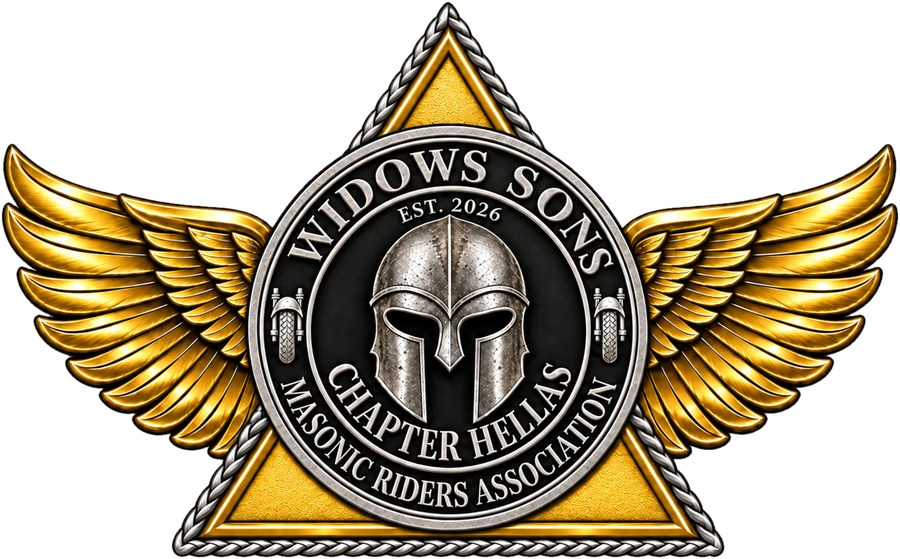
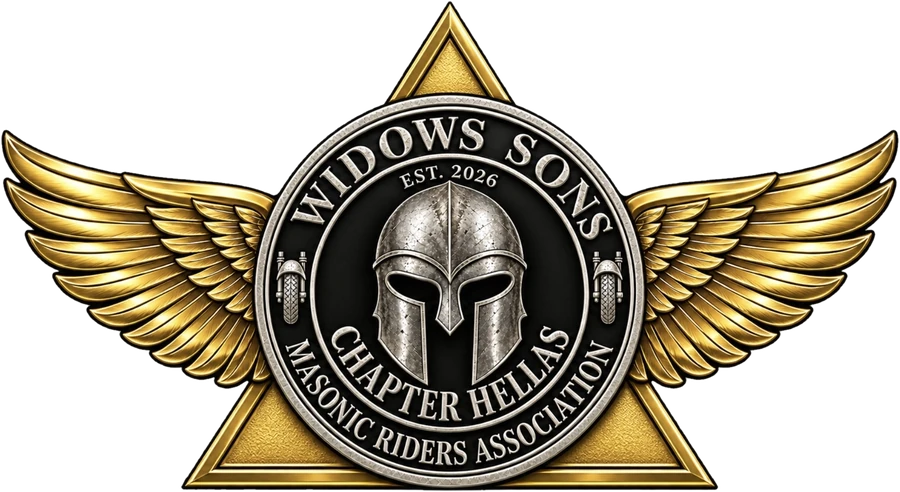
Give the brethren the gold-edged pin, and fold the specifications away
The members' pin is replaced. It no longer carries a twisted cord: the
triangle bears no silver upon it at all, only its own raised gold rim
with a fine gold line set within and the textured field between them. So
the card is rewritten to match — it is The Gold Edge now, not The Twisted
Rope — and the test of it is stated plainly: a plain gold edge and no
braid, and if there is silver anywhere but the roundel at the centre, it
is not this pin. The new artwork came on a white ground and was cut from
it: 113KB of WebP.

The technical part now opens on demand. It sits behind a button — a
native details/summary, no script — that turns from a plus to a cross as
it opens, and the nine figures, the maker's sheet and the note on the
magnet are behind it. Nothing is lost; it is simply not in the way of a
reader who came to look at the pins.

One thing had to be said rather than left implied. The maker's sheet
names a silver braided border in its own notes, so it is the Chair's
specification, not a general one. The caption now says so: the sheet is
drawn for the braided border, and the members' pin is the same in every
measure and differs only in its edge.

Four blocks changed their English, so their Greek and Spanish moved with
them and one stale entry was dropped; the register stands at 183 apiece.

Verified: the specifications are closed at rest, open when the button is
pressed and close again; the Greek reads Η Χρυσή Ακμή and the Spanish El
[…]

diff --git a/assets/ws-lang.js b/assets/ws-lang.js
@@ -213,8 +213,12 @@
     "<b>Finish</b><span>Antique gold &amp; antique silver, hard enamel</span>": "<b>Φινίρισμα</b><span>Παλαιωμένος χρυσός &amp; άργυρος, σκληρό σμάλτο</span>",
     "<b>Fastening</b><span>One centred neodymium magnet, N52</span>": "<b>Στερέωση</b><span>Ένας κεντρικός μαγνήτης νεοδυμίου, N52</span>",
     "<b>Pull</b><span>1.5 – 2.0 kg minimum</span>": "<b>Ελκτική δύναμη</b><span>1,5 – 2,0 kg κατ’ ελάχιστον</span>",
-    "The sheet the maker works from — front, side and back, with the dimensions, the finishes and the magnet": "Το φύλλο από το οποίο εργάζεται ο κατασκευαστής — εμπρός, πλάγια και πίσω, με τις διαστάσεις, τα φινιρίσματα και τον μαγνήτη",
-    "A magnet, not a pin post: it holds through leather and cloth without piercing either, which is why it may be worn on a jacket that must not be punctured. <b>A sample is approved by the Chapter before any quantity is struck.</b>": "Μαγνήτης, όχι καρφίτσα: κρατά μέσα από δέρμα και ύφασμα χωρίς να τρυπά ούτε το ένα ούτε το άλλο, γι’ αυτό και μπορεί να φερθεί σε σακάκι που δεν πρέπει να διατρηθεί. <b>Δείγμα εγκρίνεται από το Chapter πριν χυτευθεί οποιαδήποτε ποσότητα.</b>"
+    "A magnet, not a pin post: it holds through leather and cloth without piercing either, which is why it may be worn on a jacket that must not be punctured. <b>A sample is approved by the Chapter before any quantity is struck.</b>": "Μαγνήτης, όχι καρφίτσα: κρατά μέσα από δέρμα και ύφασμα χωρίς να τρυπά ούτε το ένα ούτε το άλλο, γι’ αυτό και μπορεί να φερθεί σε σακάκι που δεν πρέπει να διατρηθεί. <b>Δείγμα εγκρίνεται από το Chapter πριν χυτευθεί οποιαδήποτε ποσότητα.</b>",
+    "The Gold Edge": "Η Χρυσή Ακμή",
+    "The plainer of the two, and the one most brethren wear. The triangle carries <b>no silver upon it at all</b>: it is bound by its own <b>raised gold rim</b>, with a fine gold line set within, and the textured gold field between them.": "Το απλούστερο εκ των δύο, και εκείνο που φέρουν οι περισσότεροι αδελφοί. Το τρίγωνο δεν φέρει <b>ουδόλως άργυρο</b>: περιβάλλεται από το ίδιο του το <b>ανάγλυφο χρυσό χείλος</b>, με λεπτή χρυσή γραμμή εντός αυτού και το ανάγλυφο χρυσό πεδίο ανάμεσά τους.",
+    "<b>How it is told</b>A plain gold edge and no braid. If there is silver anywhere but the roundel at the centre, it is not this pin.": "<b>Πώς αναγνωρίζεται</b>Απλή χρυσή ακμή και καμία πλεξίδα. Αν υπάρχει άργυρος οπουδήποτε πλην του κεντρικού δίσκου, δεν είναι αυτό το σήμα.",
+    "Technical specifications — how the pin is made": "Τεχνικές προδιαγραφές — πώς κατασκευάζεται το σήμα",
+    "The sheet the maker works from. It is drawn for the braided border of the Chair; the members’ pin is the same in every measure and differs only in its edge.": "Το φύλλο από το οποίο εργάζεται ο κατασκευαστής. Είναι σχεδιασμένο για το πλεκτό περίγραμμα της Προεδρίας· το σήμα των μελών είναι το ίδιο σε κάθε διάσταση και διαφέρει μόνο ως προς την ακμή του."
    },
    "es": {
     "<a href=\"#organization\">Organization</a> <a href=\"#dresscode\">Dress Code</a> <a href=\"#administration\">Administration</a> <a href=\"#emblem\">Emblem</a> <a href=\"#constitution\">Constitution</a> <a href=\"#bylaws\">By-Laws</a><a href=\"officers.html\">Officers</a><a href=\"secretary.html\">Secretary</a>": "<a href=\"#organization\">Organización</a> <a href=\"#dresscode\">Indumentaria</a> <a href=\"#administration\">Administración</a> <a href=\"#emblem\">Emblema</a> <a href=\"#constitution\">Constitución</a> <a href=\"#bylaws\">Reglamento</a><a href=\"officers.html\">Oficiales</a><a href=\"secretary.html\">Secretaría</a>",
@@ -394,8 +398,12 @@
     "<b>Finish</b><span>Antique gold &amp; antique silver, hard enamel</span>": "<b>Acabado</b><span>Oro y plata antiguos, esmalte duro</span>",
     "<b>Fastening</b><span>One centred neodymium magnet, N52</span>": "<b>Sujeción</b><span>Un imán de neodimio centrado, N52</span>",
     "<b>Pull</b><span>1.5 – 2.0 kg minimum</span>": "<b>Fuerza de agarre</b><span>1,5 – 2,0 kg como mínimo</span>",
-    "The sheet the maker works from — front, side and back, with the dimensions, the finishes and the magnet": "La hoja con la que trabaja el fabricante — frente, perfil y dorso, con las medidas, los acabados y el imán",
-    "A magnet, not a pin post: it holds through leather and cloth without piercing either, which is why it may be worn on a jacket that must not be punctured. <b>A sample is approved by the Chapter before any quantity is struck.</b>": "Un imán, no un alfiler: sujeta a través del cuero y de la tela sin perforar ninguno de los dos, por lo que puede llevarse en una chaqueta que no debe perforarse. <b>El Chapter aprueba una muestra antes de acuñar cualquier cantidad.</b>"
+    "A magnet, not a pin post: it holds through leather and cloth without piercing either, which is why it may be worn on a jacket that must not be punctured. <b>A sample is approved by the Chapter before any quantity is struck.</b>": "Un imán, no un alfiler: sujeta a través del cuero y de la tela sin perforar ninguno de los dos, por lo que puede llevarse en una chaqueta que no debe perforarse. <b>El Chapter aprueba una muestra antes de acuñar cualquier cantidad.</b>",
+    "The Gold Edge": "El Filo Dorado",
+    "The plainer of the two, and the one most brethren wear. The triangle carries <b>no silver upon it at all</b>: it is bound by its own <b>raised gold rim</b>, with a fine gold line set within, and the textured gold field between them.": "El más sencillo de los dos, y el que llevan la mayoría de los hermanos. El triángulo <b>no lleva plata alguna</b>: va ceñido por su propio <b>reborde dorado en relieve</b>, con una fina línea de oro por dentro y el campo de oro texturado entre ambos.",
+    "<b>How it is told</b>A plain gold edge and no braid. If there is silver anywhere but the roundel at the centre, it is not this pin.": "<b>Cómo se reconoce</b>Un filo dorado liso y ninguna trenza. Si hay plata en cualquier parte que no sea el disco central, no es este pin.",
+    "Technical specifications — how the pin is made": "Especificaciones técnicas — cómo se fabrica el pin",
+    "The sheet the maker works from. It is drawn for the braided border of the Chair; the members’ pin is the same in every measure and differs only in its edge.": "La hoja con la que trabaja el fabricante. Está dibujada para el borde trenzado de la Presidencia; el pin de los miembros es idéntico en todas sus medidas y solo difiere en su filo."
    }
   };
 

diff --git a/index.html b/index.html
@@ -966,6 +966,27 @@ footer .fmotto{font-family:'Mrs Saint Delafield',cursive; color:var(--crimson-br
   letter-spacing:.06em;color:#f2e7c5}
 
 /* how it is made */
+/* the technical sheet, opened only when it is asked for */
+#regalia .tech{margin-top:0;border:1px solid rgba(203,168,103,.30);border-radius:10px;
+  background:linear-gradient(145deg,rgba(20,21,23,.9),rgba(7,8,9,.95));overflow:hidden}
+#regalia .tech summary{list-style:none;cursor:pointer;display:flex;align-items:center;gap:14px;
+  padding:18px 22px;font:600 12px/1.3 'Oswald',sans-serif;letter-spacing:.16em;text-transform:uppercase;
+  color:var(--gold-bright);transition:background .18s ease,color .18s ease}
+#regalia .tech summary::-webkit-details-marker{display:none}
+#regalia .tech summary:before{content:'';flex:none;width:26px;height:26px;border-radius:50%;
+  border:1px solid rgba(203,168,103,.55);background:rgba(0,0,0,.45);
+  background-image:linear-gradient(currentColor,currentColor),linear-gradient(currentColor,currentColor);
+  background-size:11px 1.5px,1.5px 11px;background-position:center,center;background-repeat:no-repeat;
+  transition:transform .22s ease}
+#regalia .tech[open] summary:before{transform:rotate(135deg)}
+#regalia .tech summary:hover{background:rgba(203,168,103,.07);color:#f0d69b}
+#regalia .tech summary:focus-visible{outline:2px solid var(--gold-bright);outline-offset:-3px}
+#regalia .tech-body{padding:4px 22px 22px}
+#regalia .tech .spec-grid{margin-top:6px}
+@media(max-width:560px){
+  #regalia .tech summary{padding:16px 16px;font-size:11px;letter-spacing:.12em}
+  #regalia .tech-body{padding:4px 16px 18px}
+}
 #regalia .spec-grid{display:grid;grid-template-columns:repeat(3,minmax(0,1fr));gap:14px;margin:0 0 22px;padding:0;list-style:none}
 #regalia .spec-grid li{padding:14px 16px;background:rgba(0,0,0,.42);border:1px solid rgba(255,255,255,.09);
   border-top:2px solid var(--gold);border-radius:6px}
@@ -1303,22 +1324,25 @@ footer .fmotto{font-family:'Mrs Saint Delafield',cursive; color:var(--crimson-br
 
       <article class="pin second">
         <span class="pin-rank">The Brethren</span>
-        <figure><img src="assets/pin-member.webp?v=20260909" alt="The Chapter pin with the twisted rope border and gold inner line, worn by the members" loading="lazy"></figure>
-        <h3>The Twisted Rope</h3>
+        <figure><img src="assets/pin-member.webp?v=20260909b" alt="The Chapter pin with the plain gold edge, worn by the members of the Chapter" loading="lazy"></figure>
+        <h3>The Gold Edge</h3>
         <p class="pin-who">Members of the Chapter</p>
-        <p>The plainer of the two, and the one most brethren wear. The triangle is bound by a <b>single twisted cord</b> rather than a braid, and a <b>fine gold line</b> runs inside it, setting the silver off from the golden field.</p>
+        <p>The plainer of the two, and the one most brethren wear. The triangle carries <b>no silver upon it at all</b>: it is bound by its own <b>raised gold rim</b>, with a fine gold line set within, and the textured gold field between them.</p>
         <p>It is worn by every <b>member in good standing</b>, whatever office he holds or does not hold. Nothing upon it names a rank.</p>
-        <div class="tell"><b>How it is told</b>One cord twisted upon itself, narrower than the braid, with a thin gold rule between it and the field.</div>
+        <div class="tell"><b>How it is told</b>A plain gold edge and no braid. If there is silver anywhere but the roundel at the centre, it is not this pin.</div>
       </article>
 
     </div>
 
     <p class="pin-rule">Both pins carry the same centre &mdash; the Spartan helm between two wheels, <b>Widows Sons &middot; Chapter Hellas &middot; Masonic Riders Association &middot; est. 2026</b> &mdash; and the same golden wings. Only the border changes, and the border is what says which is which. Like the colours, the pin is the property of the Association: it is issued by the Chapter and returned to it.</p>
 
-    <!-- ---------- how it is made ---------- -->
+    <!-- ---------- how it is made: opened on demand ---------- -->
     <div class="part-locator">PART 03.2 — HOW IT IS MADE</div>
-    <ul class="spec-grid">
-      <li><b>Total width</b><span>50 mm</span></li>
+    <details class="tech">
+      <summary>Technical specifications &mdash; how the pin is made</summary>
+      <div class="tech-body">
+      <ul class="spec-grid">
+        <li><b>Total width</b><span>50 mm</span></li>
       <li><b>Total height</b><span>32 mm</span></li>
       <li><b>Central circle</b><span>30 mm diameter</span></li>
       <li><b>Wing overhang</b><span>10 mm each side</span></li>
@@ -1328,11 +1352,13 @@ footer .fmotto{font-family:'Mrs Saint Delafield',cursive; color:var(--crimson-br
       <li><b>Fastening</b><span>One centred neodymium magnet, N52</span></li>
       <li><b>Pull</b><span>1.5 – 2.0 kg minimum</span></li>
     </ul>
-    <figure class="sheet">
-      <img src="assets/pin-spec-sheet.jpg?v=20260909" alt="Manufacturing specification of the Chapter pin: front, side and back views with dimensions, colours, finishes and the magnetic fastening" loading="lazy">
-      <figcaption>The sheet the maker works from &mdash; front, side and back, with the dimensions, the finishes and the magnet</figcaption>
-    </figure>
-    <p class="pin-rule">A magnet, not a pin post: it holds through leather and cloth without piercing either, which is why it may be worn on a jacket that must not be punctured. <b>A sample is approved by the Chapter before any quantity is struck.</b></p>
+      <figure class="sheet">
+        <img src="assets/pin-spec-sheet.jpg?v=20260909" alt="Manufacturing specification of the Chapter pin: front, side and back views with dimensions, colours, finishes and the magnetic fastening" loading="lazy">
+        <figcaption>The sheet the maker works from. It is drawn for the braided border of the Chair; the members&rsquo; pin is the same in every measure and differs only in its edge.</figcaption>
+      </figure>
+      <p class="pin-rule">A magnet, not a pin post: it holds through leather and cloth without piercing either, which is why it may be worn on a jacket that must not be punctured. <b>A sample is approved by the Chapter before any quantity is struck.</b></p>
+      </div>
+    </details>
   </div>
 </section>
 
@@ -1752,7 +1778,7 @@ document.getElementById('navlinks').addEventListener('click', function(e){
   if(e.target.closest('a') && window.innerWidth <= 920){ this.style.display = 'none'; }
 });
 document.head.appendChild(Object.assign(document.createElement('script'),
-  { src:'assets/ws-lang.js?v=20260909', defer:true }));
+  { src:'assets/ws-lang.js?v=20260909b', defer:true }));
 </script>
 </body>
 </html>

diff --git a/CLAUDE.md b/CLAUDE.md
@@ -109,15 +109,21 @@ English.
 ## The pin
 
 Section 03 sets out the extra regalia: one pin in two borders. The **braided
-silver** is the President's and the one presented to a Grand Master; the
-**twisted rope with a fine gold line** is worn by every member. The centre and
-the wings are identical — the border is the whole distinction. Both are cut out
-of their white ground and carried as WebP.
+silver** is the President's and the one presented to a Grand Master; the **plain
+gold edge**, with no silver on the triangle at all, is worn by every member. The
+centre and the wings are identical — the border is the whole distinction. Both
+are cut out of their white ground and carried as WebP.
+
+The technical part sits behind a `<details>` button and opens on demand: a
+native disclosure, no script, and its summary is translated like any other
+block.
 
 The measurements on the page (50 × 32 mm, 2.5–3.0 mm thick, N52 magnet) are
-taken from `assets/pin-spec-sheet.jpg`, which is the sheet shown. A second sheet
-exists, `assets/pin-spec-sheet-2.jpg`, and it disagrees — 29 mm tall, 4.5 mm
-thick, magnet Ø10 × 3 mm. Settle which governs before anything is struck.
+taken from `assets/pin-spec-sheet.jpg`, which is the sheet shown — **and that
+sheet is drawn for the braided border**, so it governs the Chair's pin; the
+members' differs only in its edge, as the caption says. A second sheet exists,
+`assets/pin-spec-sheet-2.jpg`, and it disagrees — 29 mm tall, 4.5 mm thick,
+magnet Ø10 × 3 mm. Settle which governs before anything is struck.
 
 ## The three tongues
 
